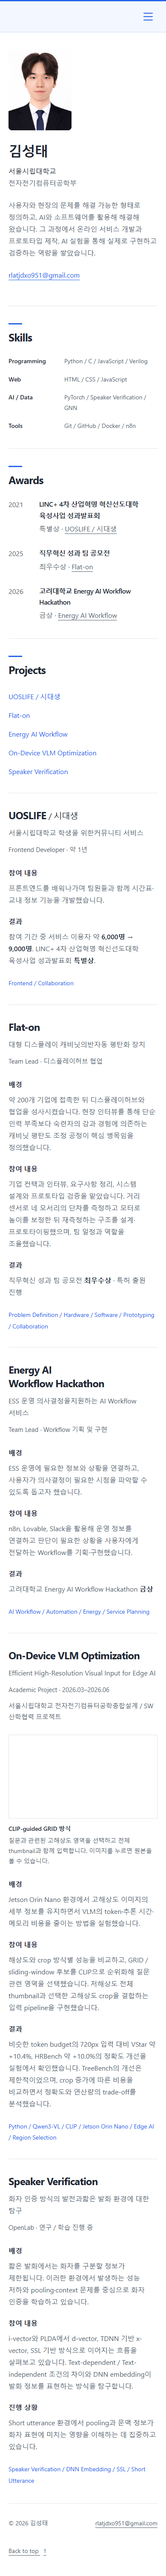
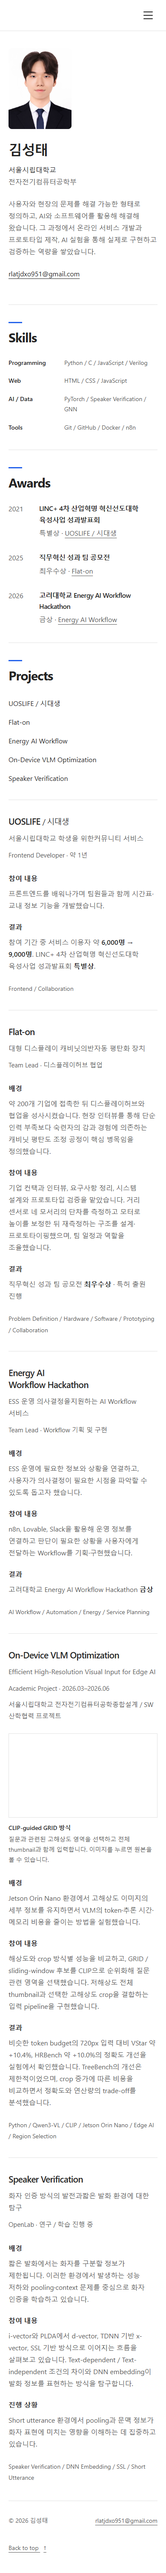
style: restrict blue accents and strengthen section heading hierarchy

diff --git a/css/style.css b/css/style.css
@@ -1,12 +1,10 @@
 :root {
   color-scheme: light;
   --background: #ffffff;
-  --text: #202734;
-  --muted: #525d6d;
+  --text: #242424;
+  --muted: #595959;
   --accent: #2563eb;
-  --accent-soft: #f3f7ff;
-  --accent-border: #cfddfa;
-  --border: #e0e5ed;
+  --border: #e2e2e2;
   font-family: -apple-system, BlinkMacSystemFont, "Segoe UI", "Noto Sans KR", "Malgun Gothic", sans-serif;
   color: var(--text);
   background: var(--background);
@@ -16,11 +14,11 @@
 * { box-sizing: border-box; }
 html { scroll-behavior: smooth; }
 body { margin: 0; }
-::selection { background: #dbeafe; }
+::selection { background: #e8e8e8; }
 a { color: inherit; text-decoration-thickness: 1px; text-underline-offset: 5px; }
 a:hover { text-decoration: underline; }
 button { font: inherit; }
-a:focus-visible, button:focus-visible { outline: 2px solid var(--accent); outline-offset: 5px; }
+a:focus-visible, button:focus-visible { outline: 2px solid var(--text); outline-offset: 5px; }
 [tabindex="-1"]:focus { outline: none; }
 h1, h2, h3, p, dl, dd { margin: 0; }
 h1, h2, h3 { line-height: 1.3; letter-spacing: -0.035em; }
@@ -28,12 +26,12 @@ p, dd, h3 { word-break: keep-all; overflow-wrap: anywhere; }
 .container { width: min(1120px, calc(100% - 96px)); margin-inline: auto; }
 .skip-link { position: fixed; top: 12px; left: 12px; z-index: 20; padding: 12px 20px; background: var(--text); color: white; transform: translateY(-180%); }
 .skip-link:focus { transform: translateY(0); color: white; }
-.header { position: sticky; top: 0; z-index: 10; background: var(--accent-soft); border-top: 3px solid var(--accent); border-bottom: 1px solid var(--accent-border); }
+.header { position: sticky; top: 0; z-index: 10; background: var(--background); border-bottom: 1px solid var(--border); }
 .nav { display: flex; align-items: center; justify-content: flex-end; min-height: 72px; gap: 24px; }
 .nav-list { list-style: none; display: flex; gap: 28px; padding: 0; margin: 0; }
-.nav-list a { display: block; padding-block: 12px; text-decoration: none; font-size: 14px; color: var(--accent); font-weight: 600; }
+.nav-list a { display: block; padding-block: 12px; text-decoration: none; font-size: 14px; color: var(--text); font-weight: 600; }
 .nav-list a:hover { text-decoration: underline; }
-.nav-toggle { display: none; border: 0; background: transparent; color: var(--accent); padding: 11px; width: 44px; height: 44px; cursor: pointer; }
+.nav-toggle { display: none; border: 0; background: transparent; color: var(--text); padding: 11px; width: 44px; height: 44px; cursor: pointer; }
 .menu-icon { display: flex; flex-direction: column; justify-content: space-between; width: 22px; height: 18px; position: relative; }
 .menu-icon span { display: block; width: 22px; height: 2px; border-radius: 1px; background: currentColor; }
 .nav-toggle[aria-expanded="true"] .menu-icon span:first-child { position: absolute; top: 8px; transform: rotate(45deg); }
@@ -49,19 +47,19 @@ h1 { font-size: clamp(2rem, 4vw, 2.75rem); margin-bottom: 12px; letter-spacing: 
 .text-link span { margin-left: 8px; }
 .section { border-top: 1px solid var(--border); padding-block: 64px; }
 section[id], article[id], main[id] { scroll-margin-top: 110px; }
-h2 { font-size: 28px; font-weight: 650; }
+h2 { font-size: 36px; font-weight: 750; }
 .section > h2::before { content: ""; display: block; width: 32px; height: 3px; background: var(--accent); margin-bottom: 14px; }
 .project { display: grid; grid-template-columns: minmax(0, 0.85fr) minmax(0, 1.35fr); gap: 72px; padding-block: 48px; }
 .project + .project { border-top: 1px solid var(--border); }
 .project:last-child { padding-bottom: 0; }
-.project h3 { font-size: 26px; }
-.title-secondary { font-size: 20px; font-weight: 450; }
+.project h3 { font-size: 23px; font-weight: 600; }
+.title-secondary { font-size: 18px; font-weight: 450; }
 .project-summary { margin-block: 16px 22px; color: var(--muted); }
 .project-details dt { font-size: 16px; font-weight: 600; margin-bottom: 8px; }
 .project-details dd { color: var(--muted); font-size: 16px; }
 .project-details dd + dt { margin-top: 22px; }
 .project-details strong { color: var(--text); font-weight: 600; }
-.keywords { color: var(--accent); font-size: 14px; line-height: 1.9; margin-top: 26px; }
+.keywords { color: var(--muted); font-size: 14px; line-height: 1.9; margin-top: 26px; }
 .resume-section { display: grid; grid-template-columns: minmax(0, 0.85fr) minmax(0, 1.35fr); gap: 72px; }
 .resume-content { min-width: 0; }
 .resume-content h3 { font-size: 18px; font-weight: 600; }
@@ -97,10 +95,10 @@ h2 { font-size: 28px; font-weight: 650; }
   .hero-description { font-size: 16px; }
   .affiliation span { display: block; margin-left: 0; }
   .section { padding-block: 40px; }
-  h2 { font-size: 25px; }
+  h2 { font-size: 30px; }
   .project, .resume-section { grid-template-columns: minmax(0, 1fr); gap: 28px; }
   .project { padding-block: 36px; }
-  .project h3 { font-size: 24px; }
+  .project h3 { font-size: 21px; }
   .project-summary { margin-block: 12px; }
   .project-summary br { display: none; }
   .skill-list > div { grid-template-columns: 115px minmax(0, 1fr); gap: 16px; }
@@ -123,10 +121,10 @@ h2 { font-size: 28px; font-weight: 650; }
 .project-figure figcaption { margin-top: 12px; color: var(--muted); font-size: 14px; line-height: 1.7; }
 .project-figure figcaption strong { display: block; margin-bottom: 4px; color: var(--text); font-weight: 600; }
 
-.hero-email { margin-top: 14px; font-size: 16px; color: var(--accent); }
+.hero-email { margin-top: 14px; font-size: 16px; color: var(--text); }
 .project-index { margin-top: 24px; padding-bottom: 28px; border-bottom: 1px solid var(--border); }
 .project-index ol { display: flex; flex-wrap: wrap; gap: 8px 32px; list-style: none; margin: 0; padding: 0; }
-.project-index a { display: inline-block; padding-block: 8px; text-decoration: none; color: var(--accent); }
+.project-index a { display: inline-block; padding-block: 8px; text-decoration: none; color: var(--text); }
 .project-index a:hover { text-decoration: underline; }
 @media (max-width: 767px) {
   .project-index ol { display: block; }
